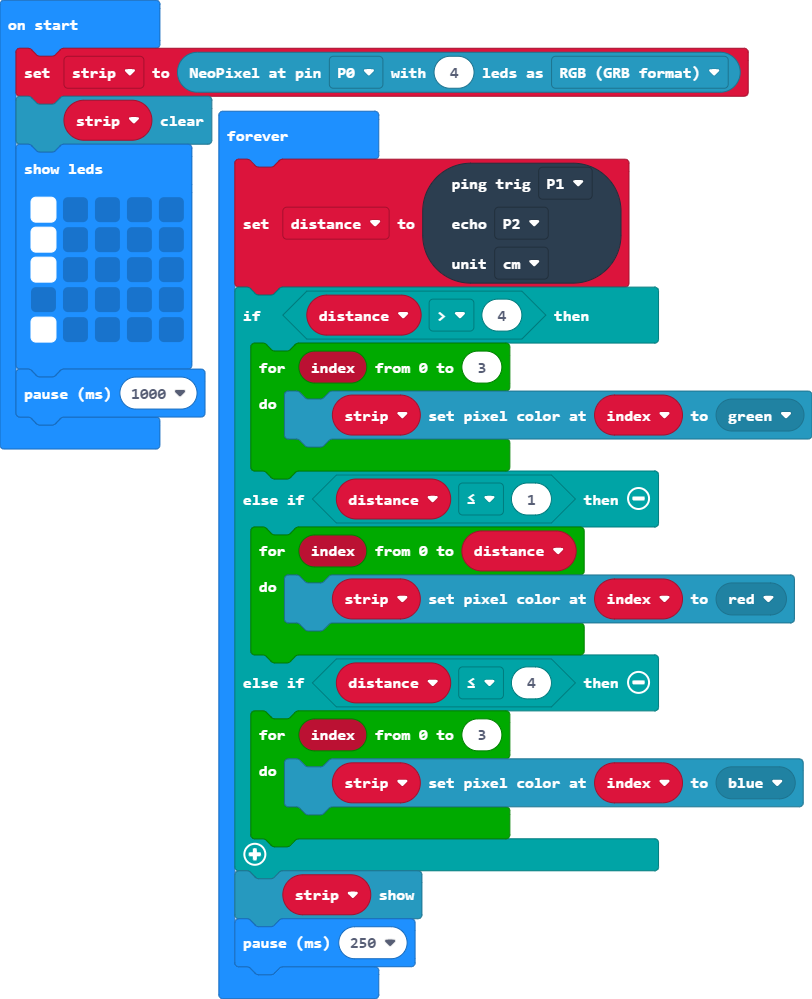
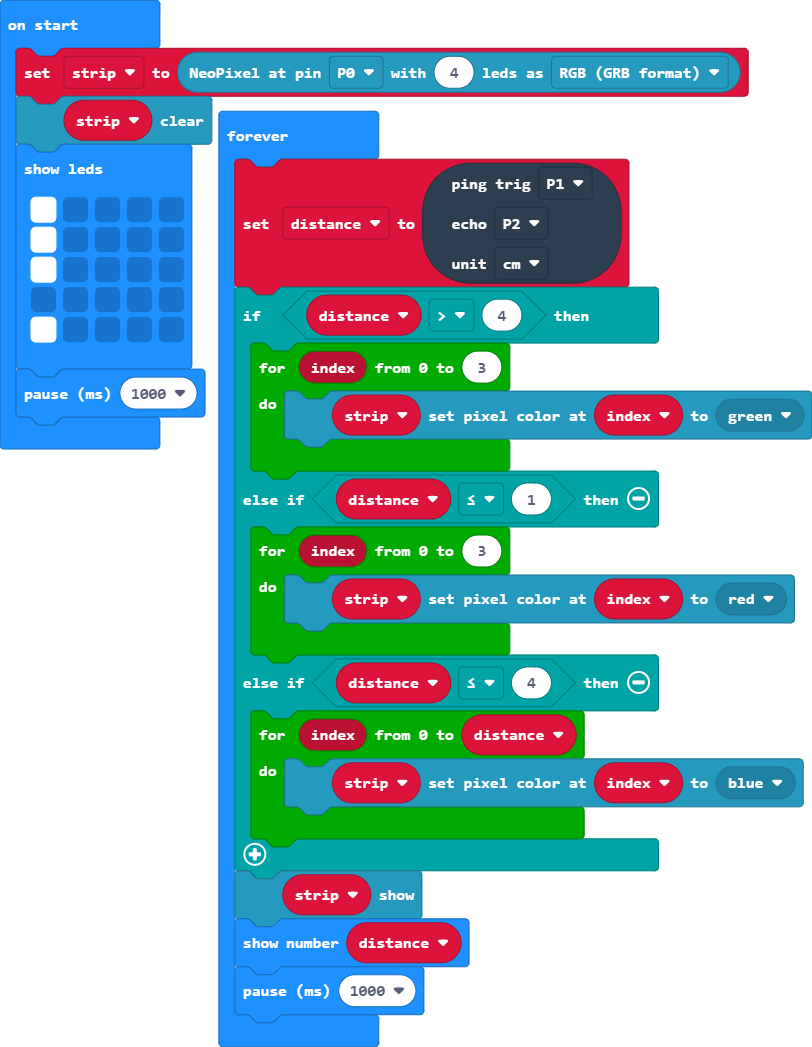
Did done did the improving and fixing of le code

diff --git a/main.ts b/main.ts
@@ -20,14 +20,15 @@ basic.forever(function () {
             strip.setPixelColor(index, neopixel.colors(NeoPixelColors.Green))
         }
     } else if (distance <= 1) {
-        for (let index = 0; index <= distance; index++) {
+        for (let index = 0; index <= 3; index++) {
             strip.setPixelColor(index, neopixel.colors(NeoPixelColors.Red))
         }
     } else if (distance <= 4) {
-        for (let index = 0; index <= 3; index++) {
+        for (let index = 0; index <= distance; index++) {
             strip.setPixelColor(index, neopixel.colors(NeoPixelColors.Blue))
         }
     }
     strip.show()
-    basic.pause(250)
+    basic.showNumber(distance)
+    basic.pause(1000)
 })
